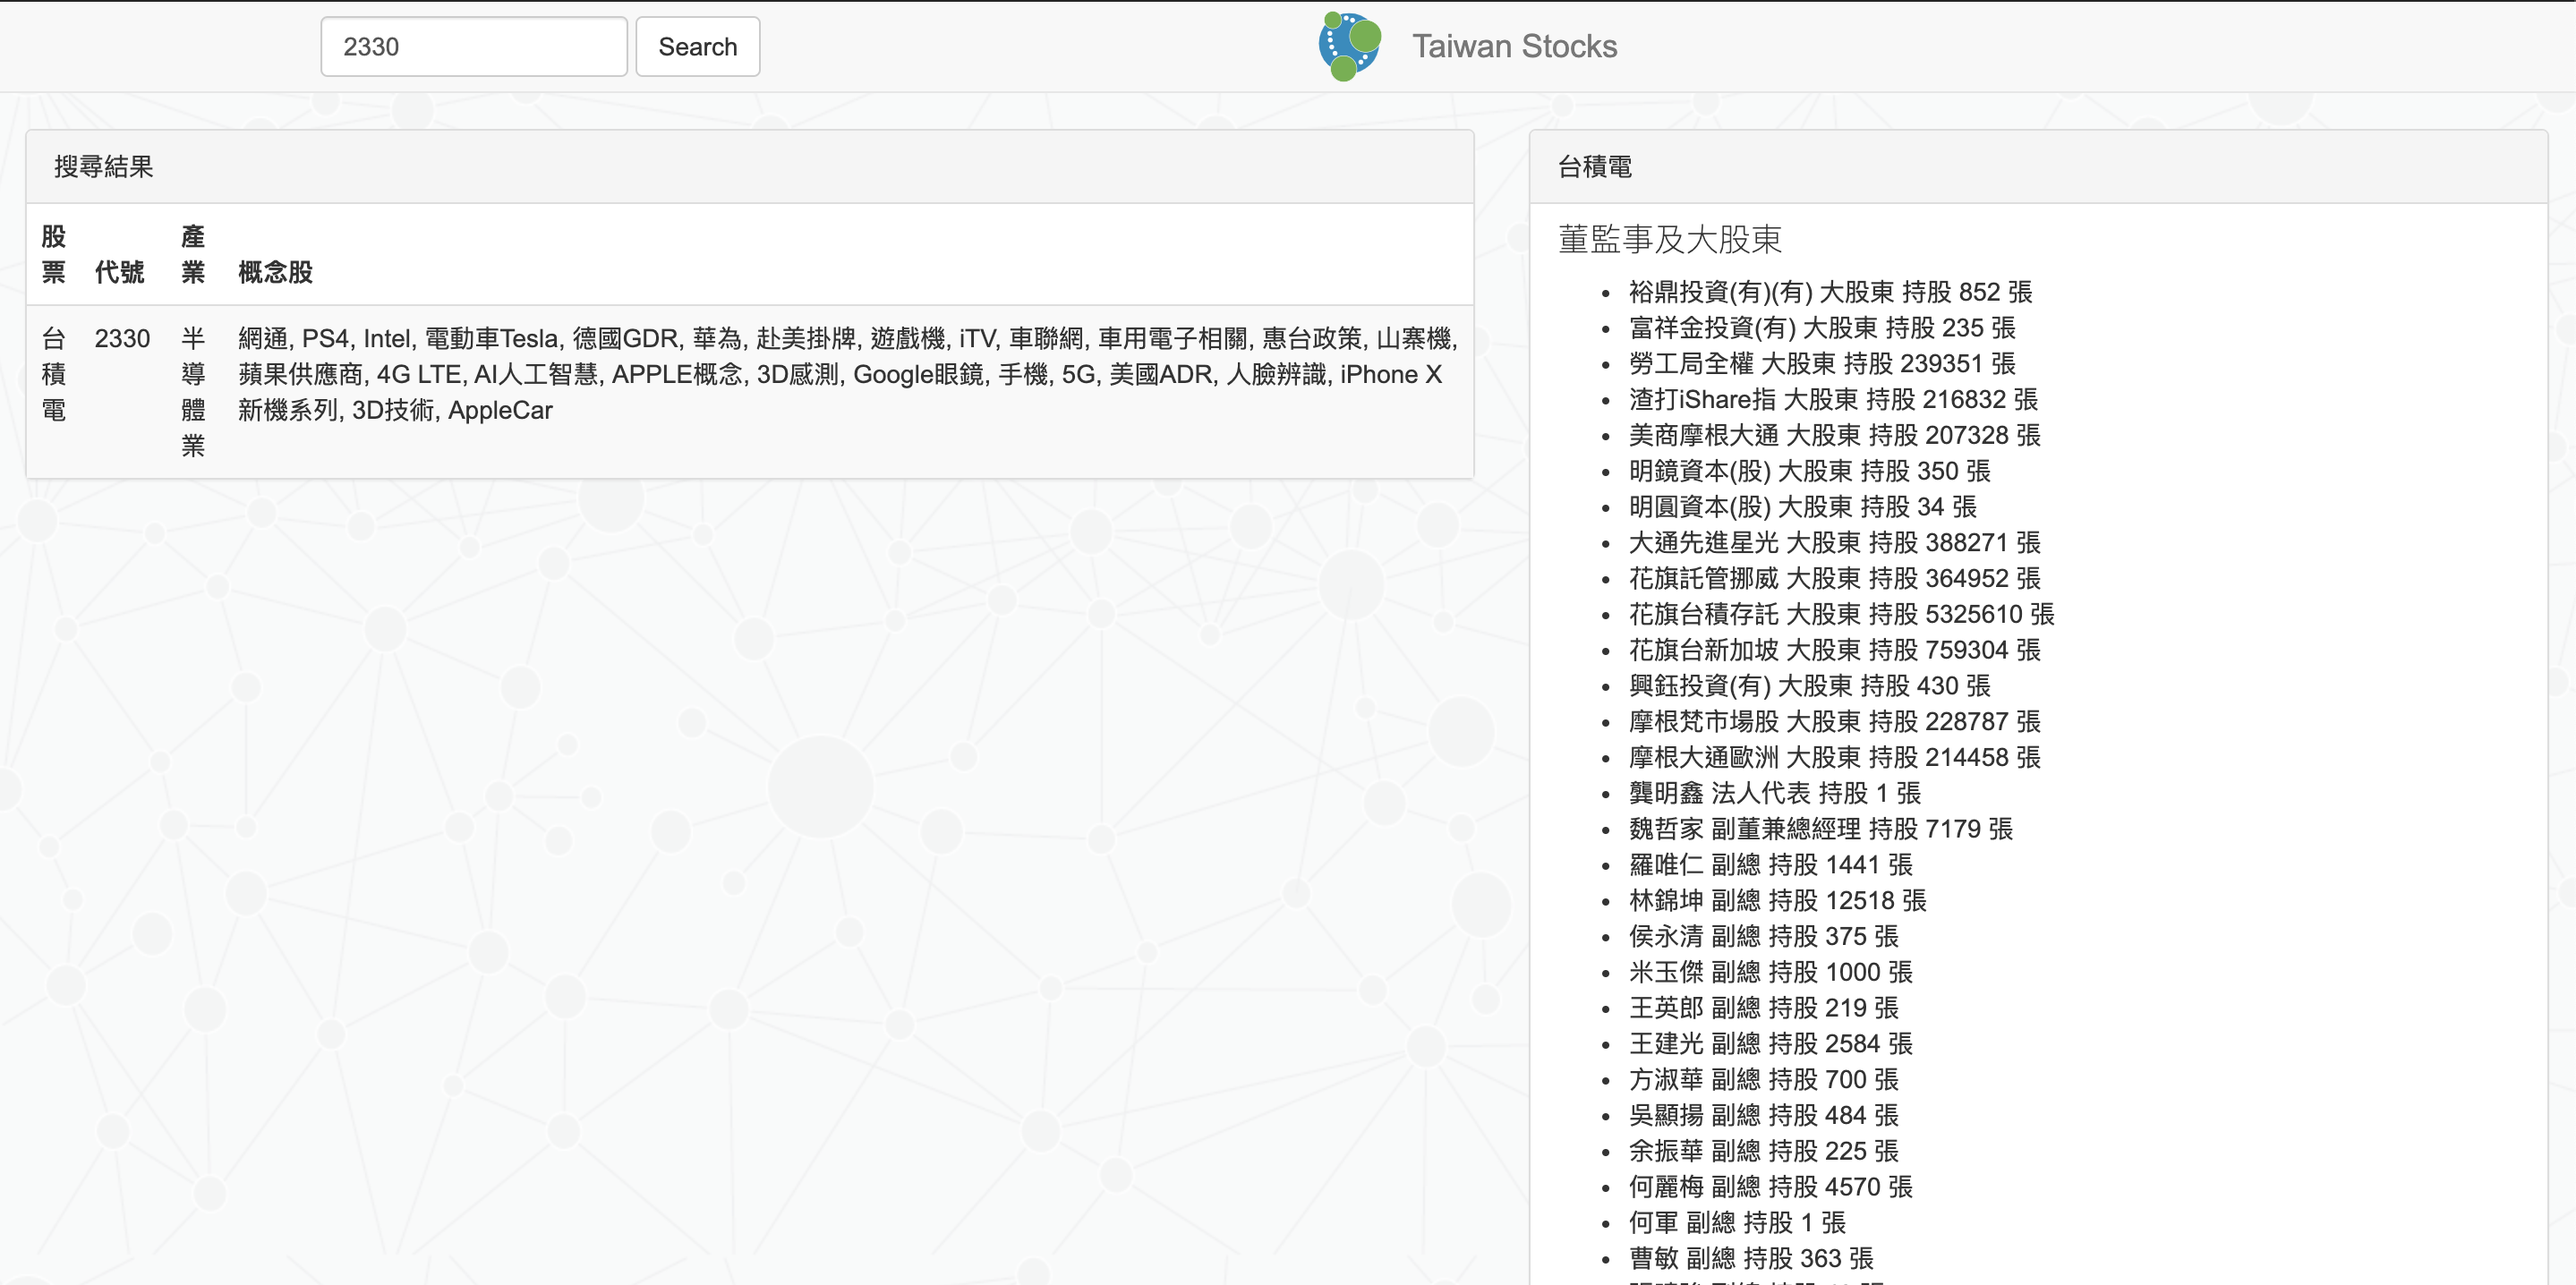
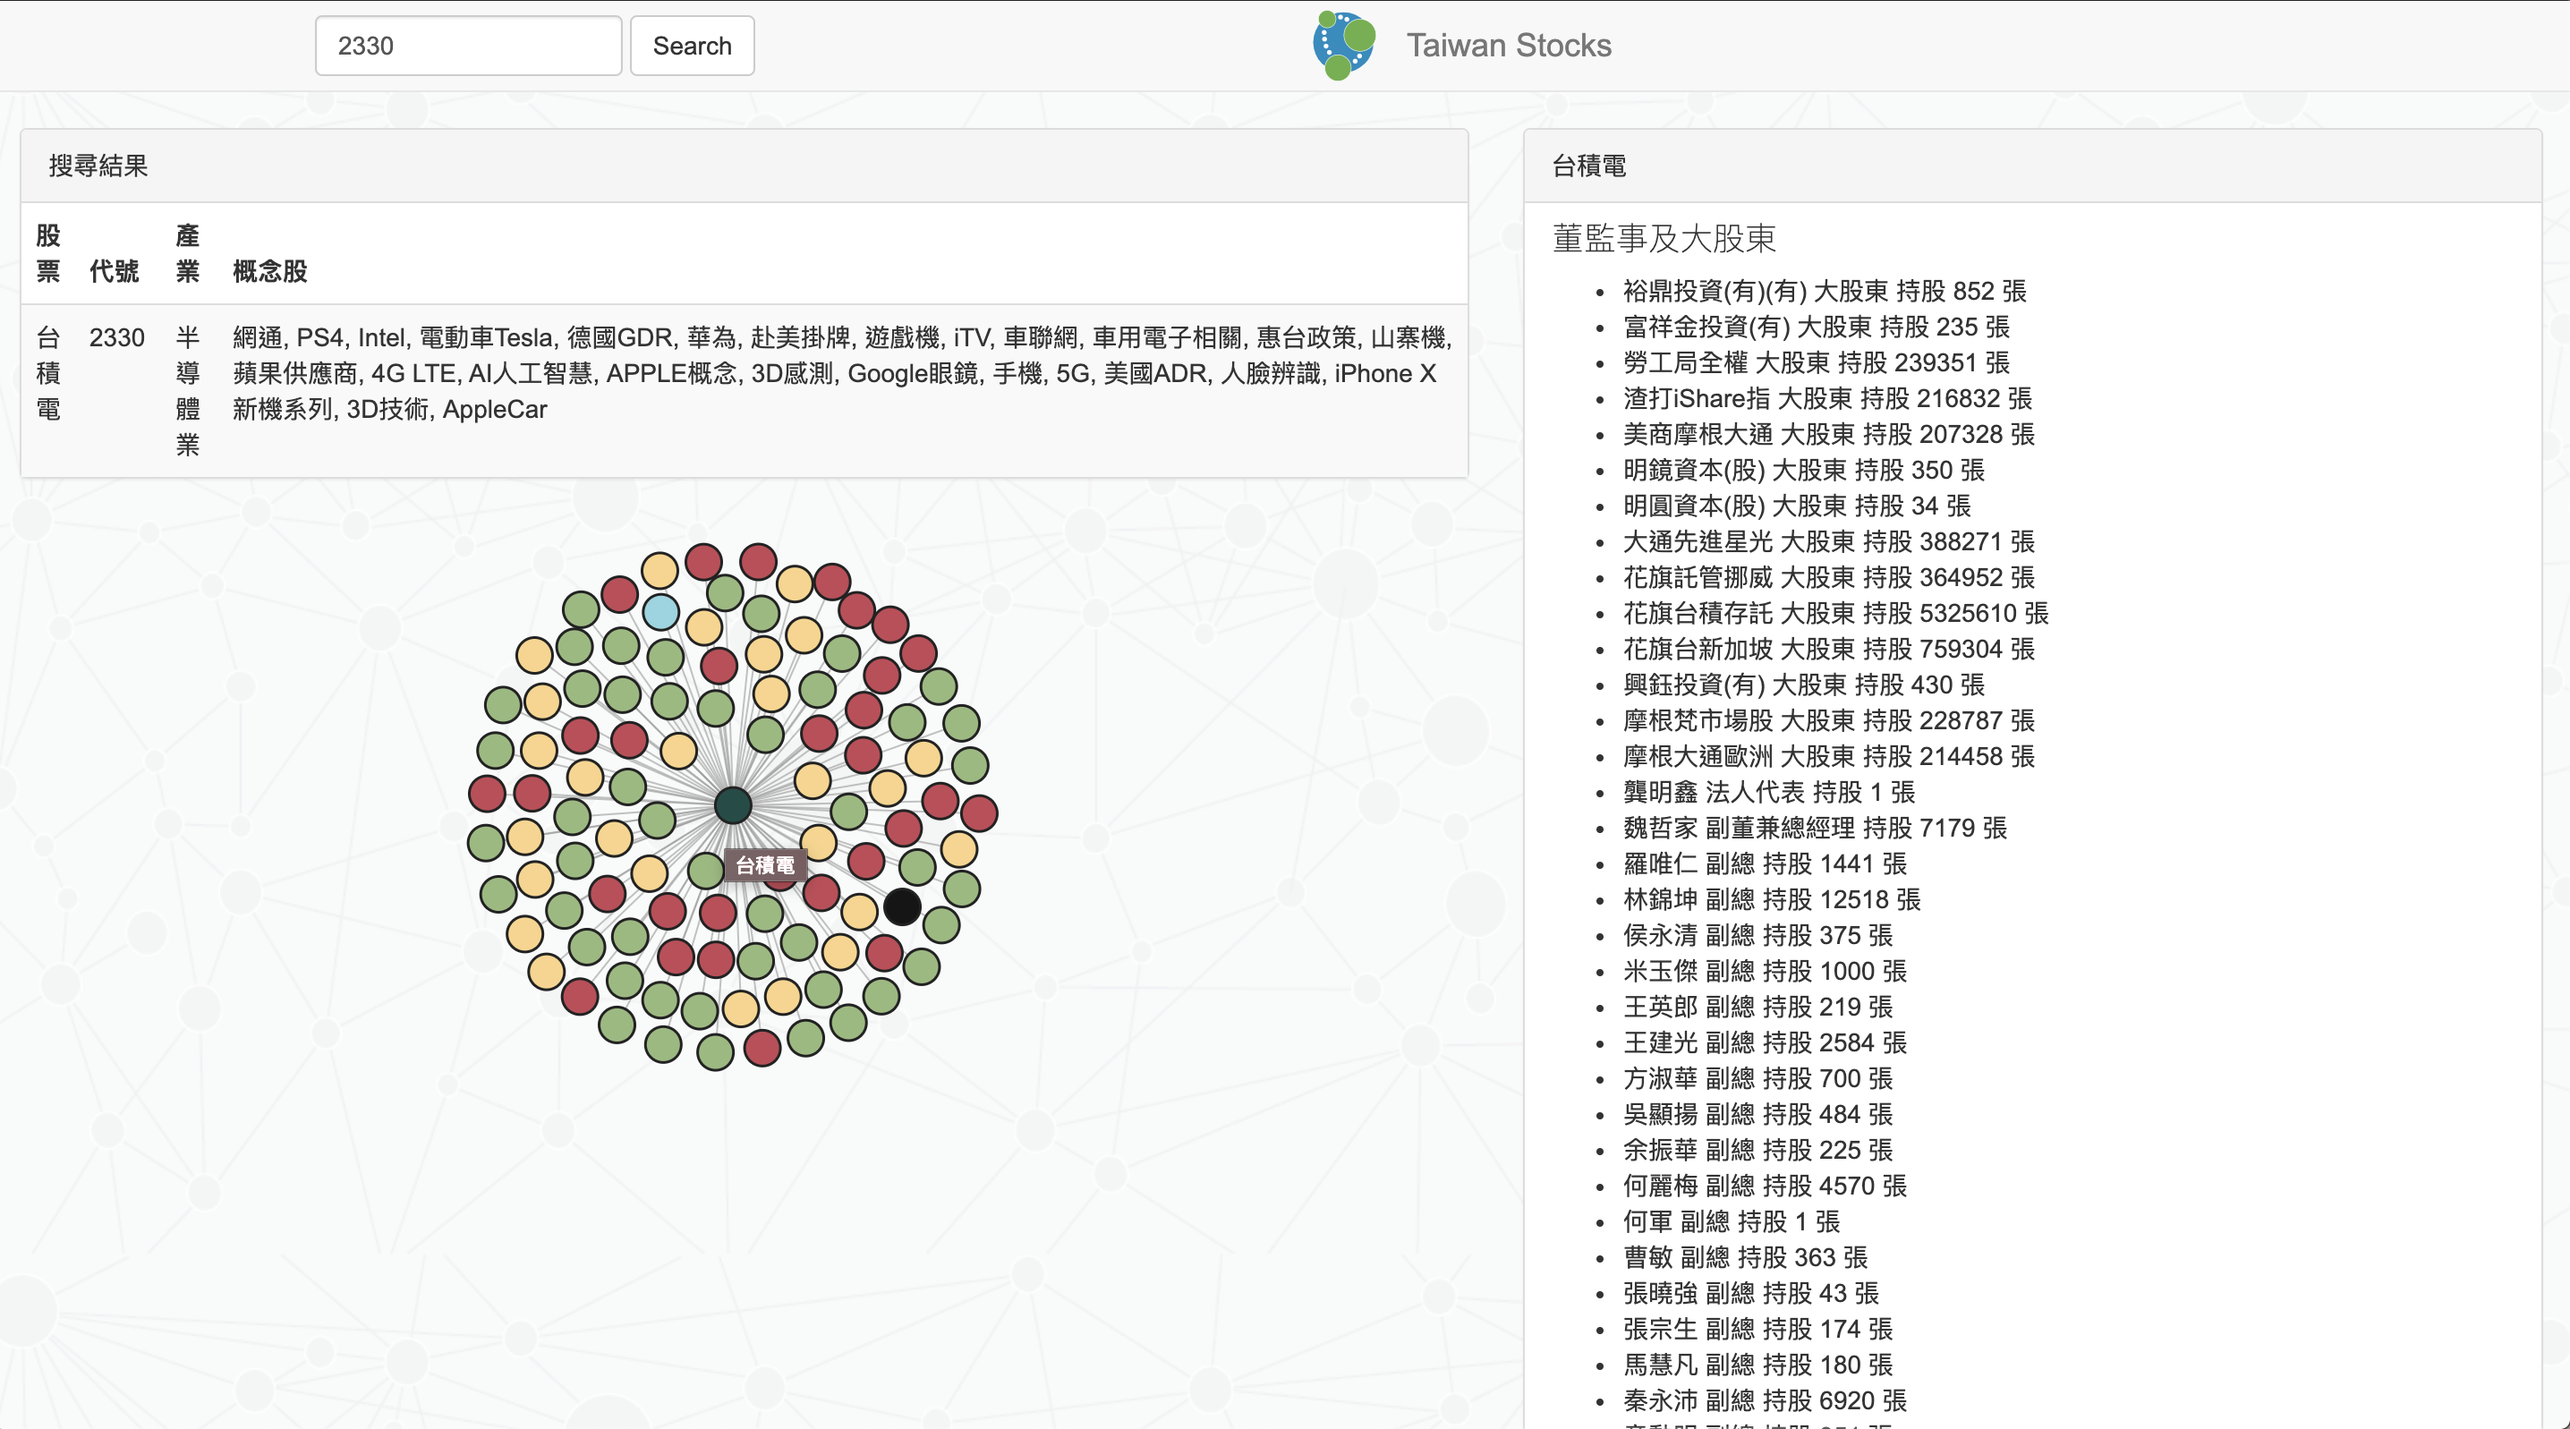
modify

diff --git a/README.md b/README.md
@@ -148,7 +148,7 @@ pip install py2neo
 
 ...等等
 
-詳細請查看 `src/test.ipynb`
+詳細請查看 `src/cypher_script.ipynb`
 
 ---
 
@@ -169,8 +169,9 @@ python run.py
 
 ### TODO
 
-- [ ] neo4j query的api
-- [ ] 前端graph的視覺化
+- [x] neo4j query的api
+- [x] 前端graph的視覺化
+- [ ] 把前端頁面弄得更細緻
 
 
 ---
@@ -212,6 +213,7 @@ employ_of粗細為該董監持股數除以全部董監持股數
 - https://stackoverflow.com/questions/23310114/how-to-reset-clear-delete-neo4j-database
 - https://github.com/nicolewhite/neo4j-flask
 - https://github.com/neo4j-examples/movies-python-bolt
+- https://observablehq.com/@xianwu/force-directed-graph-network-graph-with-arrowheads-and-lab
 
 ---
 
